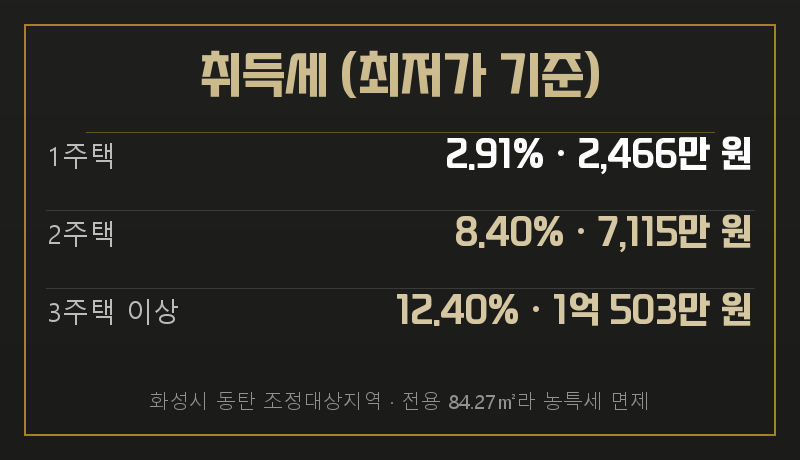
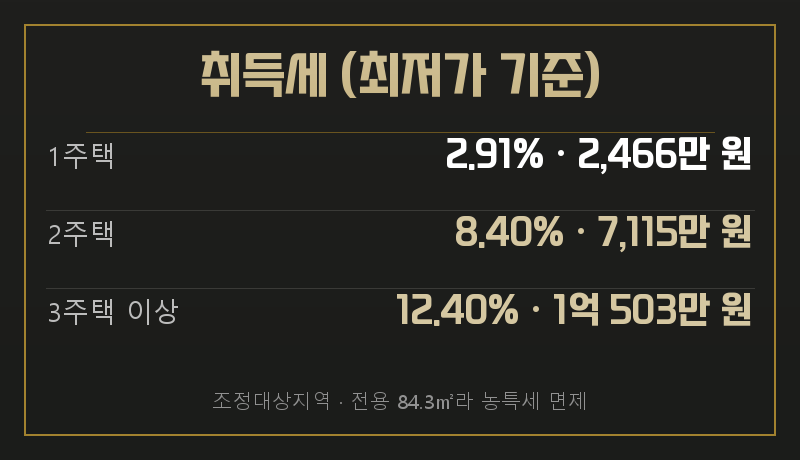
fix(카드): 돈이 걸린 두 카드를 도출로 전환 — card_data.json에서 계산 결과 삭제
대표 지적(0817): "고쳐서 매번 발행할거면 내가 왜 이런 프로그램 엔진을 요청하냐."

card_data.json에 "2.91% · 2,466만 원" 같은 계산 결과가 손으로 타이핑돼 있었다.
그러면 7번째 사건은 또 손으로 해야 한다.

- generate_cards.py가 blog_cards.from_seed()로 배당·취득세를 도출한다.
  사람이 적는 것은 inputs(최저가·전용면적·조정)뿐 — 게시 현황표에서 옮긴 사실이다.
- validate()가 손 타이핑 재유입을 차단한다:
  acquisition_tax/distribution이 cards에 적혀 있으면 오류 · inputs.최저가_원 없으면 오류.
- 한글 콘솔(cp949) 인코딩 수리 — 게이트가 위반을 잡고도 출력에서 죽어
  사유가 UnicodeEncodeError로 가려졌다. 검사기가 자기 결과를 못 보여주면 게이트가 아니다.

역검증 2종:
  손 타이핑 재주입   -> exit 1 ("도출 대상이라 손으로 적을 수 없습니다")
  inputs.최저가 삭제 -> exit 1 ("취득세를 도출할 수 없습니다")

검증: 카드 13장 도출 재생성(값 불변) · check_pages.py 초록 · 어뷰징 82~91 안전.

Changed region(s): [[0.1875, 0.8522, 0.8125, 0.913]]

diff --git a/tools/generate_cards.py b/tools/generate_cards.py
@@ -10,6 +10,7 @@ from __future__ import annotations
 
 import argparse
 import json
+import sys
 from functools import lru_cache
 from pathlib import Path
 from typing import Any
@@ -123,8 +124,16 @@ def validate(data: dict[str, Any]) -> list[str]:
         return ["cases가 비어 있습니다"]
     for case_key, case in cases.items():
         cards, omitted = case.get("cards", {}), case.get("omitted", {})
-        if set(cards) | set(omitted) != set(CARD_FILES) or set(cards) & set(omitted):
-            errors.append(f"{case_key}: 5종 카드가 cards/omitted에 정확히 한 번씩 있어야 합니다")
+        #: 도출 카드는 데이터에 적지 않는다 — 적혀 있으면 그것부터 오류다(손 타이핑 재유입 차단).
+        hand = [k for k in DERIVED_KINDS if k in cards]
+        if hand:
+            errors.append(f"{case_key}: {hand}는 도출 대상이라 손으로 적을 수 없습니다 "
+                          f"(inputs에 최저가·전용면적·조정만 적으세요)")
+        covered = set(cards) | set(omitted) | set(DERIVED_KINDS)
+        if covered != set(CARD_FILES) or (set(cards) & set(omitted)):
+            errors.append(f"{case_key}: 5종 카드가 cards/omitted/도출에 정확히 한 번씩 있어야 합니다")
+        if not (case.get("inputs") or {}).get("최저가_원"):
+            errors.append(f"{case_key}: inputs.최저가_원 없음 — 취득세를 도출할 수 없습니다")
         for kind, card in cards.items():
             if kind not in CARD_FILES:
                 errors.append(f"{case_key}: 알 수 없는 카드 {kind}")
@@ -140,6 +149,44 @@ def validate(data: dict[str, Any]) -> list[str]:
     return errors
 
 
+#: 돈이 걸린 두 카드는 **도출한다**. 여기 문자열로 적어 넣지 않는다.
+#  ★2026-08-17 대표 지적: "고쳐서 매번 발행할거면 내가 왜 이런 프로그램 엔진을 요청하냐."
+#    그날 나는 취득세를 계산해서 `"2.91% · 2,466만 원"` 처럼 card_data.json에 타이핑했다.
+#    그러면 7번째 사건은 또 손으로 해야 하고, 그건 엔진이 아니다.
+#    이제 사람이 적는 것은 **입력**(최저가·전용면적·조정)뿐이고 계산은 bid_calc가 한다.
+DERIVED_KINDS = ("acquisition_tax", "distribution")
+
+
+def _derive(case_key: str, case: dict[str, Any]) -> tuple[dict, dict]:
+    """(도출된 카드, 못 만든 사유) — seed가 있으면 seed에서, 없으면 inputs에서."""
+    import sys as _sys
+    if str(_THEME_SRC) not in _sys.path:
+        _sys.path.insert(0, str(_THEME_SRC))
+    from utils import blog_cards                                # noqa: PLC0415
+
+    inp = case.get("inputs") or {}
+    seed_path = inp.get("seed")
+    seed: dict[str, Any] = {}
+    if seed_path:
+        sp = _THEME_SRC.parent / seed_path
+        if sp.is_file():
+            seed = json.loads(sp.read_text(encoding="utf-8"))
+    #: 최저가는 회차마다 바뀐다 — seed가 아니라 **게시 표에서 확인한 현재 회차 값**이 정본이다
+    #  (2026-08-17 실측: 3414 seed 8.69억 vs 현재 회차 6.952억).
+    ref = inp.get("source_ref") or seed_path or case_key
+    if seed:
+        return blog_cards.from_seed(seed, 최저가_원=inp.get("최저가_원"), source_ref=ref)
+
+    out, why = {}, {}
+    try:
+        out["acquisition_tax"] = blog_cards.derive_tax(
+            inp.get("최저가_원"), inp.get("전용면적_m2"), inp.get("조정대상지역"), ref)
+    except Exception as e:                                      # noqa: BLE001
+        why["acquisition_tax"] = str(e)
+    why["distribution"] = "예상배당표 미수집 — seed가 없다(0=fetch실패)"
+    return out, why
+
+
 def generate(data_path: Path, selected_case: str | None = None) -> int:
     data = json.loads(data_path.read_text(encoding="utf-8"))
     errors = validate(data)
@@ -150,13 +197,30 @@ def generate(data_path: Path, selected_case: str | None = None) -> int:
         if selected_case and case_key != selected_case:
             continue
         persona = case.get("persona")
-        for kind, card in case["cards"].items():
+        derived, why = _derive(case_key, case)
+        cards = dict(case["cards"])
+        for kind in DERIVED_KINDS:
+            if kind in derived:
+                cards[kind] = derived[kind]                     # 손 타이핑을 덮어쓴다
+            elif kind in cards:
+                raise ValueError(
+                    "%s/%s: 카드가 데이터에 있는데 도출이 안 된다(%s). "
+                    "돈이 걸린 값은 손으로 적지 않는다." % (case_key, kind, why.get(kind, "")))
+        for kind, card in cards.items():
             render_card(card, ROOT / case_key / "img" / CARD_FILES[kind], persona)
             made += 1
     return made
 
 
 def main() -> int:
+    #: ★한글 콘솔(cp949)에서 — 게이트가 위반을 잡고도 출력 단계에서 죽으면 **사유가 안 보인다**.
+    #  2026-08-17 실측: "최저가 없음"을 정확히 잡았는데 화면엔 UnicodeEncodeError만 떴다.
+    #  검사기가 자기 결과를 못 보여주면 게이트가 아니다(check_pages.py와 같은 수리).
+    try:
+        sys.stdout.reconfigure(encoding="utf-8", errors="replace")
+        sys.stderr.reconfigure(encoding="utf-8", errors="replace")
+    except Exception:                                           # noqa: BLE001
+        pass
     parser = argparse.ArgumentParser(description="THE FIN 블로그 카드 5종 결정론 생성기")
     parser.add_argument("--data", type=Path, default=DEFAULT_DATA)
     parser.add_argument("--case", choices=["2024-68165", "2025-51955", "2026-3414"])
